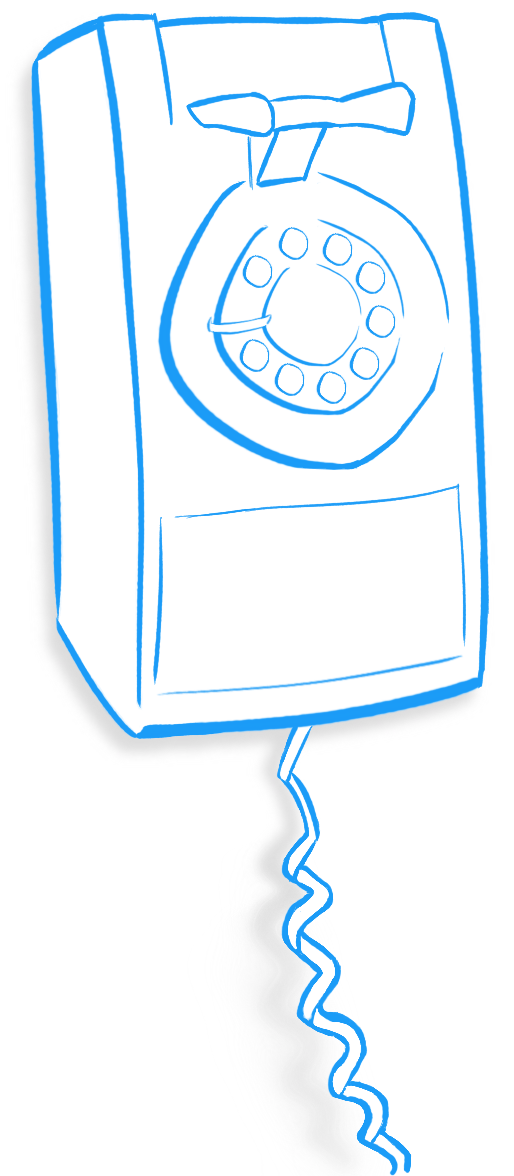
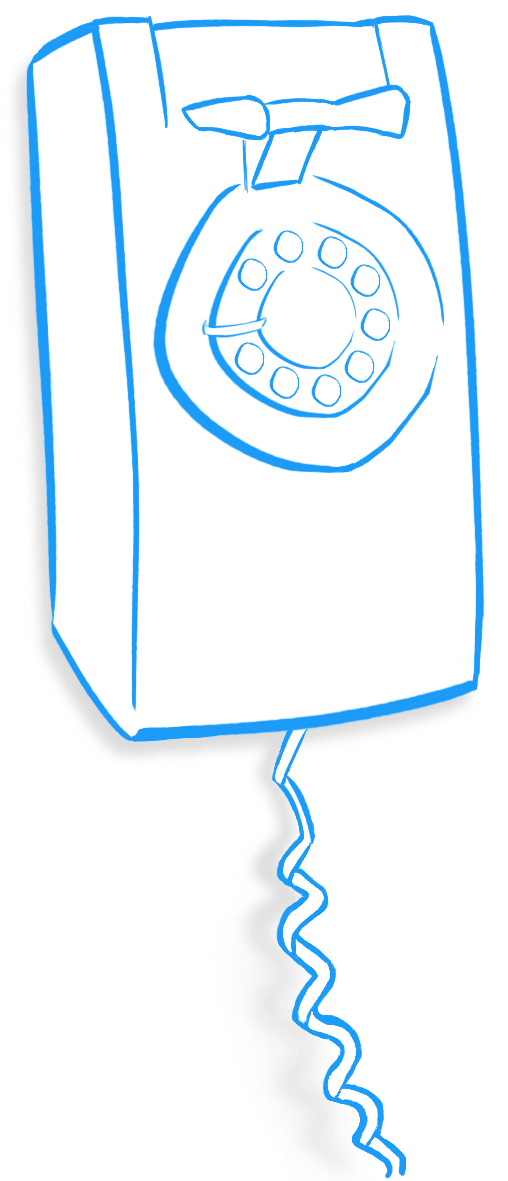
New images, with green come click mes waiting to get wired.

diff --git a/wp-content/themes/ddbz/style.css b/wp-content/themes/ddbz/style.css
@@ -173,8 +173,13 @@ footer p {
   z-index: 1;
 }
 
-.hello {
+.phone {
   height: 60vh;
+  width: auto;
+}
+
+.jargon {
+  height: 50vh;
   width: auto;
 }
 
